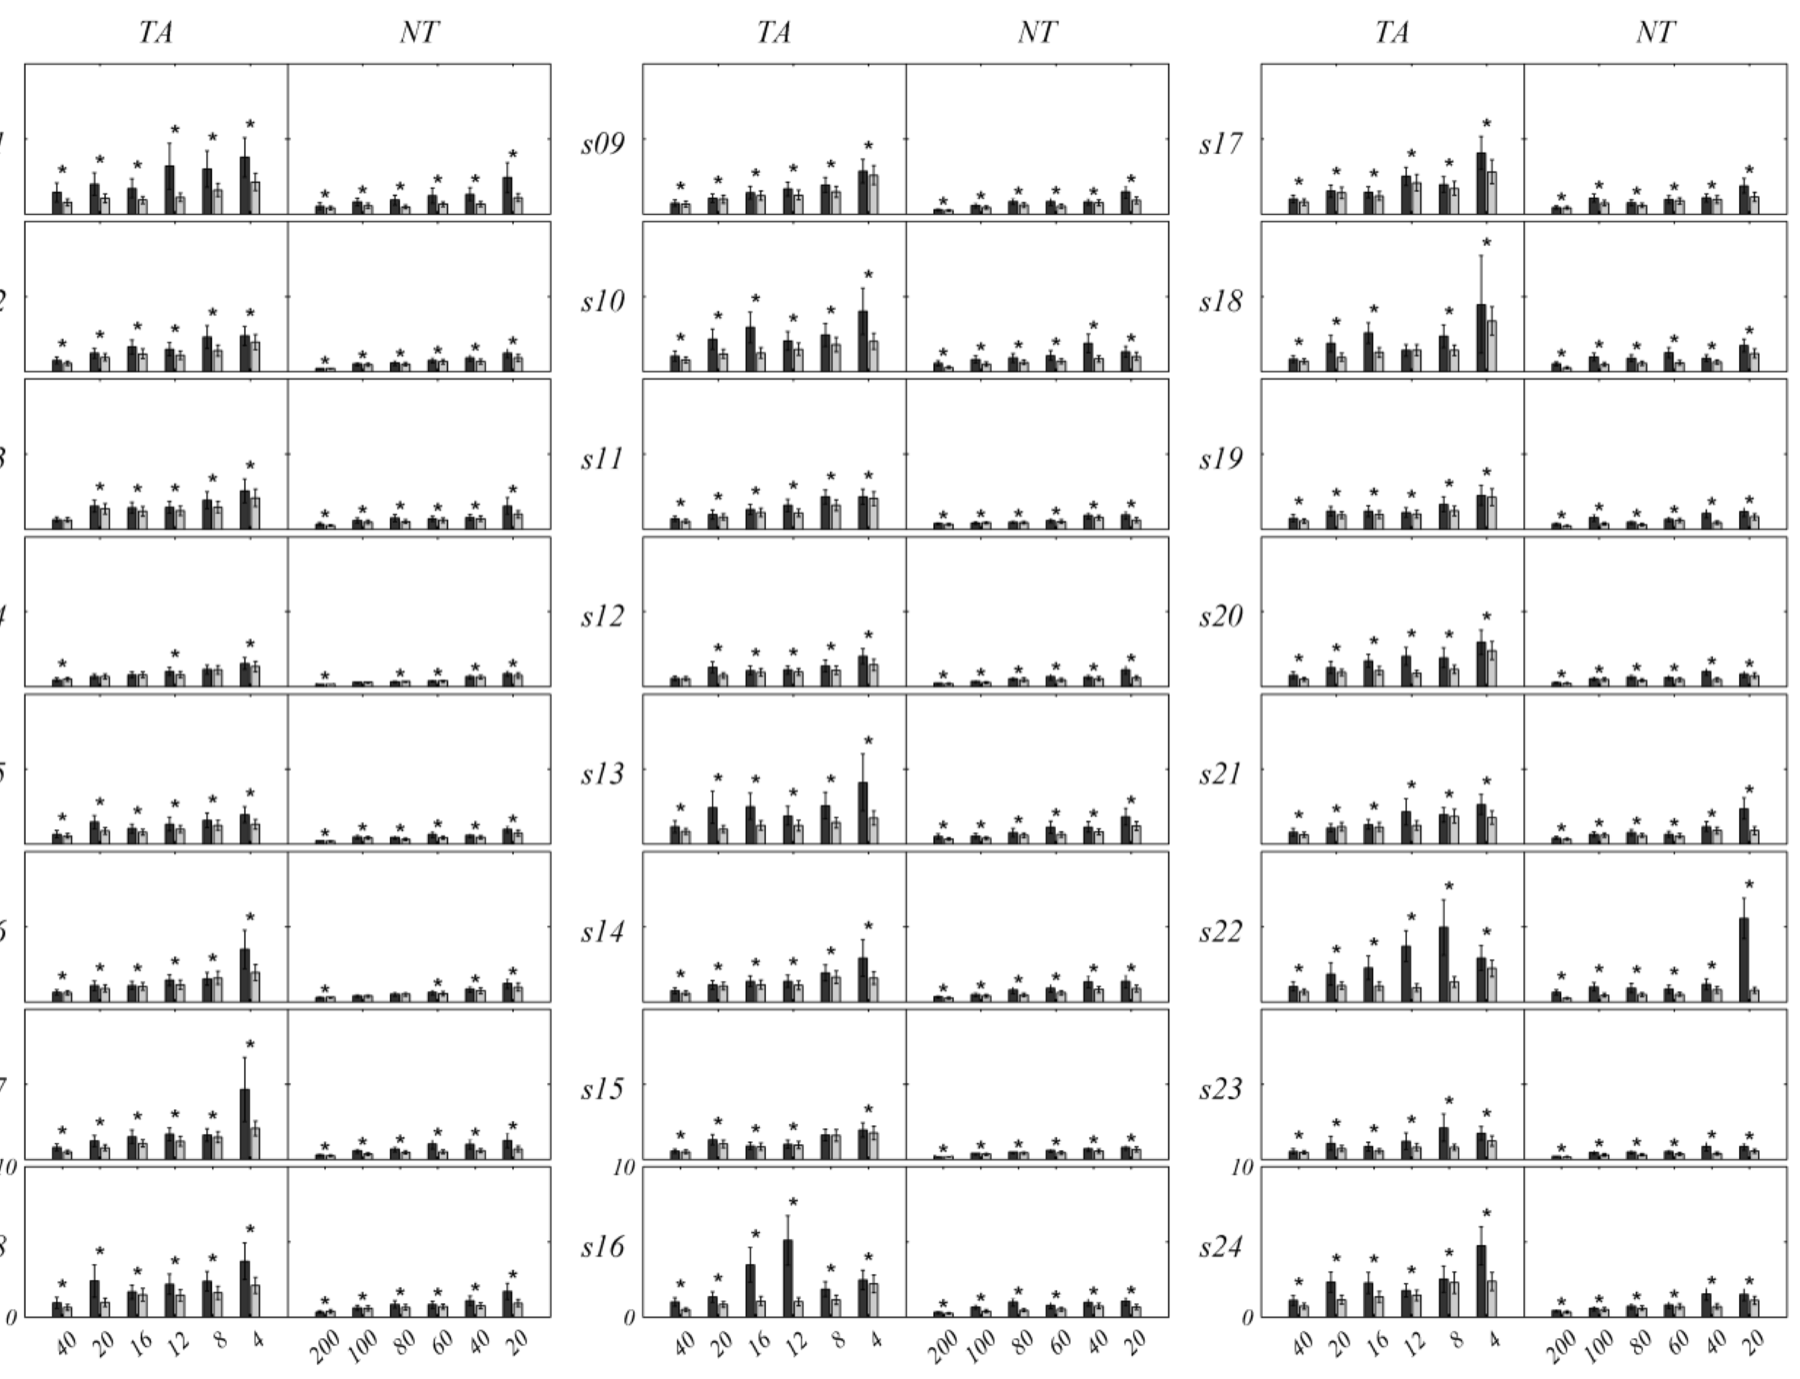
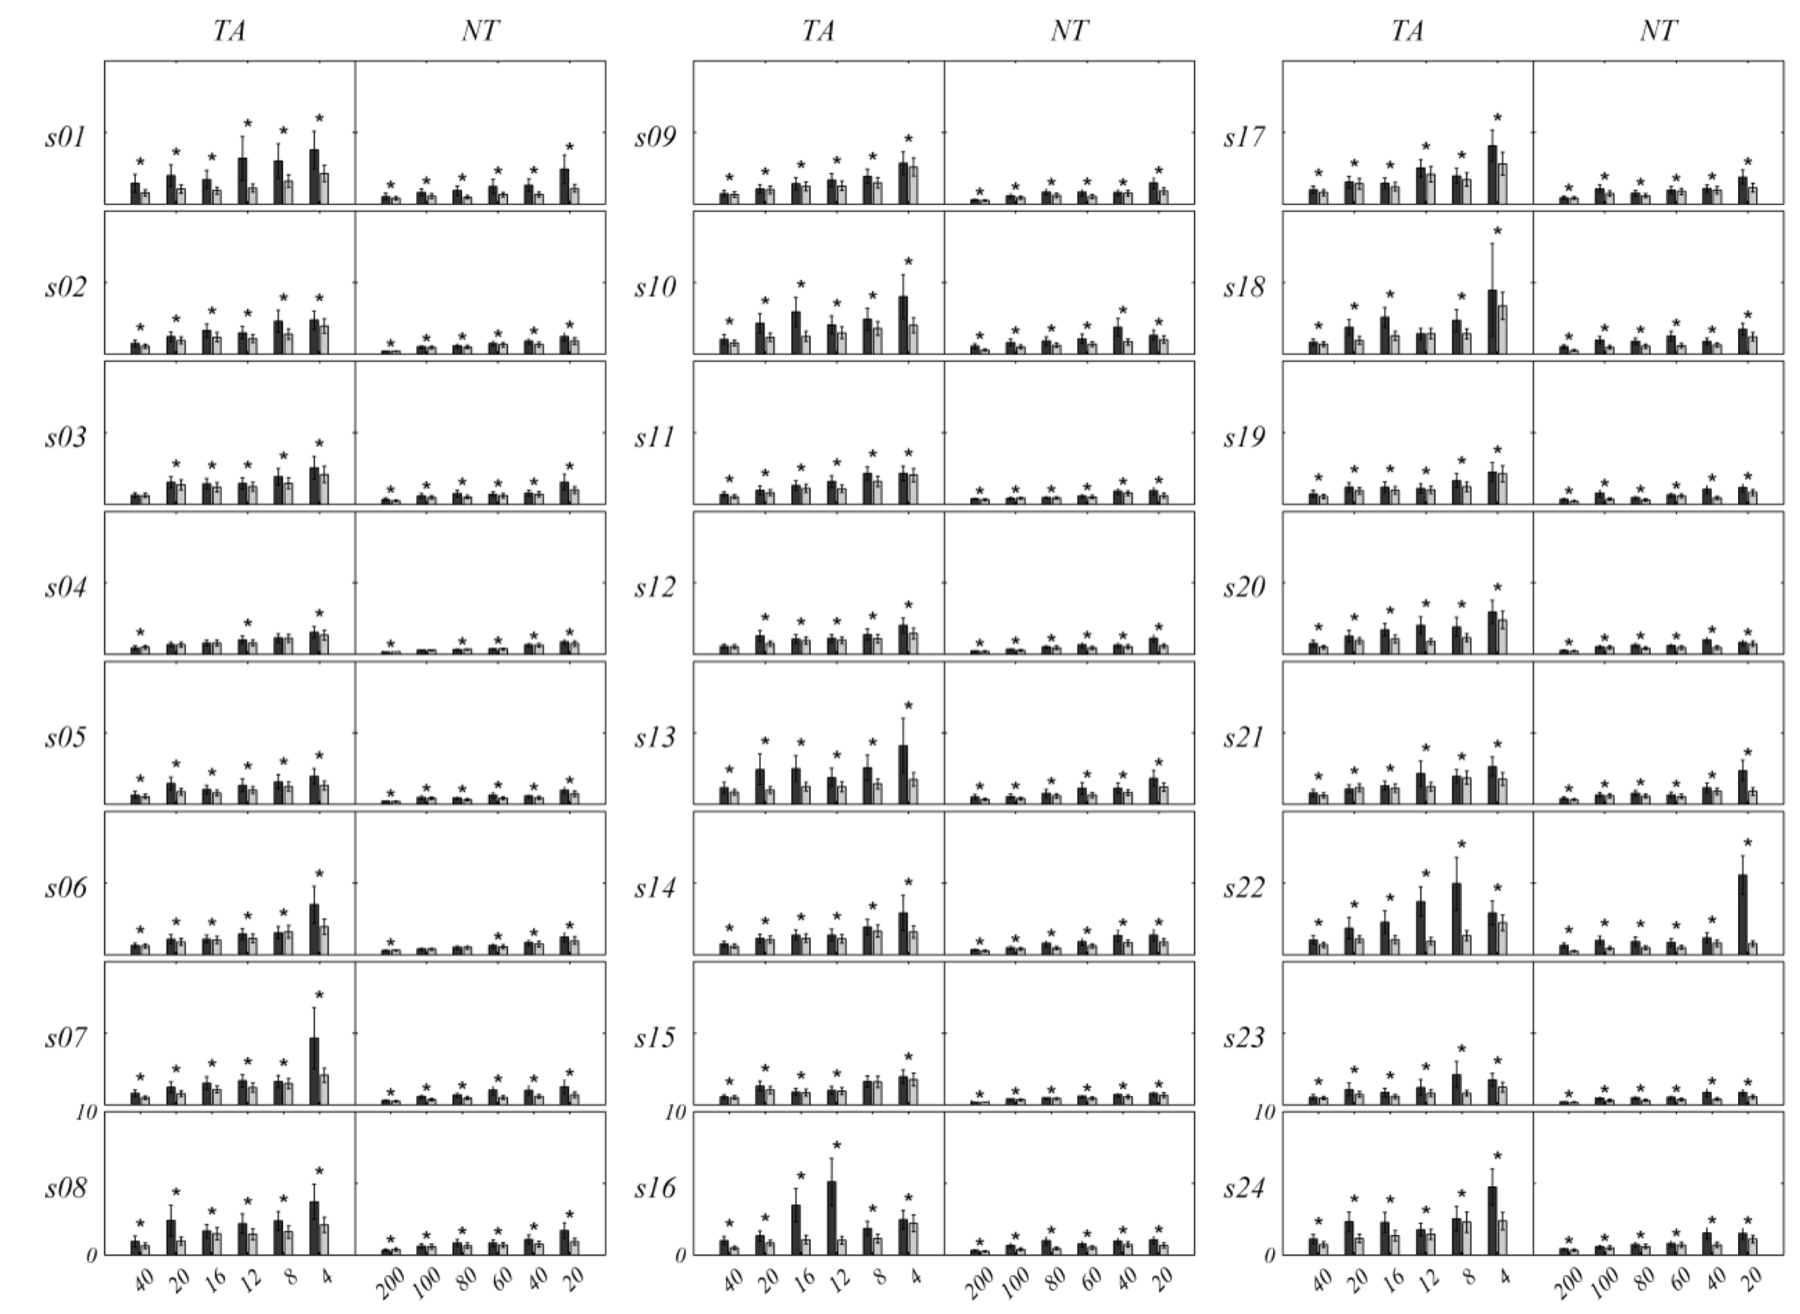
Docs: apply review fixes (SubspaceDim rule, sizes, trigger bounds, Fig. 5 crop)
- SubspaceDim: four or more values to let ACSTP choose (three -> middle).
- Weights output is 1 x K; exact trigger bounds with E = LatencyCorr_max.
- Remove false CRLF claim; correct the UTF-8 encoding remark (R2020a+).
- Note Fig. 2 vs text P_z mismatch; 66 % threshold reference in the code.
- Reword Type 2 latency histogram behaviour when LatencyCorr_max = 0.
- ACSTPshow help: ElectrodesName is required for Type 3 (comment only).
- Re-crop paper Fig. 5 to keep subject labels and y ticks.

diff --git a/lib/ACSTPshow.m b/lib/ACSTPshow.m
@@ -17,7 +17,8 @@ function ACSTPshow(EEG,ACSTPoptions,ACSTPfilter,Type)
 %
 % INPUTS :
 %   EEG : the same structure given to ACSTP (Fs, Trigger, EpochClass,
-%         Channels as [nb samples x nb channels], ElectrodesName optional).
+%         Channels as [nb samples x nb channels]). ElectrodesName labels
+%         the channels; it is required for Type 3.
 %   ACSTPoptions : the options given to ACSTP (uses Epoch_size and,
 %         for Type 2, LatencyCorr_max).
 %   ACSTPfilter : the second output of ACSTP.

diff --git a/README.md b/README.md
@@ -152,7 +152,7 @@ In the code: `Xhat(:,:,k) = As{c}*Bs{c}'*W(k)*X(:,:,k)*Bt{c}*At{c}'`, where `X(:
 | `A_z` | `As{z}` | N × P_z | spatial patterns (scalp maps) |
 | `E_z` | `At{z}` | T × P_z | temporal patterns (time courses) |
 | `P_z` | `BestPz(z)` | scalar | subspace dimension |
-| `σ_zk` | `Weights(k)` | K × 1 | sweep weights |
+| `σ_zk` | `Weights(k)` | 1 × K | sweep weights |
 | `τ_zk` | `Latency(k)` | K × 1 | sweep time shifts (samples) |
 | `Q̂_z` | `EAcstp(:,:,z)` | N × T | filtered ensemble average |
 | `ϒ_z` (mask) | `Mask_Electrodes` × `Mask_Time` | — | spatio-temporal mask |
@@ -213,7 +213,7 @@ Then pick `P_z` from the `SNR(p)` curve and return the step-4 filters, weights a
 
 ## Requirements and installation
 
-- **MATLAB.** The old README says R2011b or later. The code is from 2015–2016, has no MEX files, and was tested by the author on Windows.
+- **MATLAB.** The old wiki says R2011b or later. The code is from 2015–2016, has no MEX files, and was tested by the author on Windows.
 - **Signal Processing Toolbox**, for `findpeaks`. It is used to choose the subspace dimension (when you test 4 or more values) and in the latency correction (when `LatencyCorr_max > 0`). It is not bundled.
 - **Curve Fitting Toolbox `smooth`:** not needed. A copy of `smooth.m` ships in `lib/compatibility/`.
 - **EEGLAB (optional).** Only `ACSTPshow(...,3)` needs it, for the topographic maps (`readlocs`, `topoplot`). Electrode location files are in `data/loc/`. Put them on the path or copy them to EEGLAB's location folder.
@@ -274,7 +274,7 @@ Both inputs are required. See [Known issues](#known-issues) for why a call with 
 | `Trigger` | samples × 1 | zeros, with a non-zero value at the **first sample of each epoch**. Only the positions are used. You can also give a vector of sample indices, one per epoch: ACSTP then converts it and warns. |
 | `EpochClass` | epochs × 1 | class label of each epoch, in the order of `Trigger` (e.g. 0 = non-target, 1 = target) |
 | `NoiseTrigger` *(optional)* | samples × 1, or indices | epoch onsets used **only** for the noise covariances (1.12). Default: the same as `Trigger`. |
-| `ElectrodesName` *(optional)* | 1 × channels cell | electrode labels, used in figures |
+| `ElectrodesName` *(optional)* | 1 × channels cell | electrode labels, used in figures. Required by `ACSTPshow(...,3)`. |
 
 Epochs start **at** the trigger: there is no pre-stimulus window. If you want a baseline period, move the triggers earlier and widen `Epoch_size` and `Mask_Time` to match (a comment in the code suggests this).
 
@@ -283,10 +283,10 @@ Epochs start **at** the trigger: there is no pre-stimulus window. If you want a 
 | Field | Default | Meaning |
 |---|---|---|
 | `Epoch_size` | **required** | epoch length `T` in samples. It must be larger than the number of channels. |
-| `LatencyCorr_max` | `0` | maximum time shift `E` in samples (±). `0` turns latency correction off. Every trigger must be at least `E` samples away from the start and the end of the recording. |
+| `LatencyCorr_max` | `0` | maximum time shift `E` in samples (±). `0` turns latency correction off. Each trigger sample `t` must satisfy `t > E` and `t + Epoch_size − 1 + E ≤` number of samples, with `E` = `LatencyCorr_max` (otherwise ERROR5/ERROR6). |
 | `Mask_Electrodes` | all channels | channel indices of the mask. Used to choose `P_z` and in latency correction. |
 | `Mask_Time` | `1:Epoch_size` | sample indices (within the epoch) of the mask |
-| `SubspaceDim` | `N:-1:N/2` | candidate subspace dimensions, **in decreasing order**, each between 1 and N. Use one value to fix `P_z`, or three or more to let ACSTP choose (see [Known issues](#known-issues) about exactly two values). |
+| `SubspaceDim` | `N:-1:N/2` | candidate subspace dimensions, **in decreasing order**, each between 1 and N. Use one value to fix `P_z`, or four or more to let ACSTP choose (with three, the middle value is always taken). See [Known issues](#known-issues) about exactly two values. |
 | `MaxIterLatency` | `10` | maximum number of latency iterations |
 | `computeClassLat` | all classes | the classes whose latencies are estimated. Latency correction is the slowest step, so skip the classes that don't need it. |
 | `Weights` | `true` | `true`: estimate weights (1.16). `false`: all weights are 1. A K × 1 vector: use these weights as given (ACSTP warns). |
@@ -307,7 +307,7 @@ Epochs start **at** the trigger: there is no pre-stimulus window. If you want a 
 | `fullBs`, `fullBt`, `fullAs`, `fullAt` | the same, keeping all components (used for display, e.g. topoplots) |
 | `BestPz` | chosen subspace dimension per class |
 | `PzSNR` | the mask SNR for every tested `SubspaceDim` (last class), after 3-point smoothing and subtraction of its minimum (raw if only one value is tested) |
-| `Weights` | K × 1 weights `σ_k` (mean 1 within each class) |
+| `Weights` | 1 × K weights `σ_k` (mean 1 within each class); a K × 1 column of ones when `Weights = false` |
 | `Latency` | K × 1 time shifts `τ_k` in samples (0 when not estimated) |
 | `Class` | sorted class labels: the order of the 3rd dimension and of the cells |
 
@@ -367,6 +367,8 @@ Data: 24 subjects, Brain Invaders P300 odd-ball (80 target and 400 non-target fl
 ![Spatial and temporal CSTP patterns for four subjects](pic/fig4_cstp_patterns.png)
 *Paper, Fig. 4. The 16 temporal patterns (columns of `E`, time series) and spatial patterns (columns of `A`, scalp maps normalized to their maximum) for subjects 8, 10, 7 and 11. For subject 8, `P_z = 14`, so components 15–16 (very slow drifts) are removed. For subject 10, `P_z = 13`, so components 14–16 are removed; they peak at the frontal pole and are most likely eye-related.*
 
+*Note: the paper's text (and Fig. 3) give `P_z` = 14 for subject 8 and 13 for subject 10, while the panel titles of Fig. 2 read ACSTP(15) and ACSTP(14) for their target class.*
+
 ![Bootstrap RMSE of AEA and ACSTP for all subjects](pic/fig5_bootstrap_rmse.png)
 *Paper, Fig. 5. Variability of the estimators: mean and 3 SD of the RMSE over 600 bootstrap resamples, by bootstrap sample size (target: 40 down to 4 sweeps; non-target: 200 down to 20). Dark grey = AEA, light grey = ACSTP. Asterisk = significant difference (paired t-test, FDR q = 0.05). ACSTP has a lower RMSE in all subjects, and the gap grows as fewer sweeps are used.*
 
@@ -380,10 +382,11 @@ Data: 24 subjects, Brain Invaders P300 odd-ball (80 target and 400 non-target fl
 These come from reading `lib/ACSTP.m` next to the paper. Nothing was run, because no MATLAB licence was available.
 
 - **Whitening threshold.** The paper keeps the eigenvalues larger than `λ₁(C_(S))/10⁶` (CSTP box; "one million times smaller" in Appendix B). The code keeps the leading eigenvectors until their cumulative eigenvalue sum reaches `(1 − 10⁻¹²)` of the total, separately for space and time.
-- **Candidate subspace dimensions.** The paper scans `p = 2…N` and chooses in `{3,…,N−1}`. The code scans only the values in `SubspaceDim` (default `N` down to `N/2`). When the list has three or more values, it never picks the first or the last one.
-- **SNR used for `P_z`.** The paper uses the ratio of *squared* Frobenius norms (1.15). The code (`best_Pz`) uses the ratio of the norms themselves, so the 66 % threshold applies to the square root of the paper's SNR. Normalization: the paper uses `(SNR − min)/max`, while the code subtracts the minimum only. The threshold is relative, so this second difference has no effect.
+- **Candidate subspace dimensions.** The paper scans `p = 2…N` and chooses in `{3,…,N−1}`. The code scans only the values in `SubspaceDim` (default `N` down to `N/2`). When the list has three or more values, it never picks the first or the last one; with exactly three it always takes the middle one (`findpeaks` only runs for more than three).
+- **SNR used for `P_z`.** The paper uses the ratio of *squared* Frobenius norms (1.15). The code (`best_Pz`) uses the ratio of the norms themselves, so the 66 % threshold applies to the square root of the paper's SNR. The threshold is also taken relative to the largest SNR among the inner values of the list, not the global maximum. Normalization: the paper uses `(SNR − min)/max`, while the code subtracts the minimum only. The threshold is relative, so this second difference has no effect.
 - **Fallback for `P_z`.** If there is no valid local maximum, the paper sets `P_z = N − 1`. The code takes the maximum of the smoothed SNR over the inner values of the list.
 - **Latency search range.** The paper evaluates shifts in `{−E−1,…,E+1}` so that a peak at `±E` can be detected. The code evaluates `−E…E`, and `findpeaks` cannot return an end point, so shifts of exactly `±E` are never chosen.
+- **Latency threshold.** The paper's "valid local maximum" uses 66 % of the global maximum. In `LatencyEstimation` the 66 % is relative to the highest peak of the (min-subtracted) covariance curve.
 - **Latency mask.** The paper applies the mask (optionally) to both the leave-one-out average and the lagged sweep. The code masks only the lagged sweep. The leave-one-out average is computed from the current, already-shifted, weighted sweeps, without a mask.
 - **Latency stopping rule.** The paper stops when `Σ_k |τ_zk| < E`, or after `i` iterations (suggested `i = 2E`). The code stops after at least two iterations when `mean_k |τ_new − τ_old| < E / K₁`, where `K₁` is the number of epochs whose label is non-zero, or after `MaxIterLatency` iterations (default 10).
 - **Noise covariances.** These match (1.12): `cov` of each original, unweighted, unshifted epoch, averaged over all classes. The code also lets you use other segments (`EEG.NoiseTrigger`). The paper recommends random EEG segments when there are few sweeps (about 40 s of EEG is enough).
@@ -398,11 +401,10 @@ These come from reading the code. They have not been re-run.
 - **`installer.m`** looks for `external/` and `scripts/` folders that are not in the repository. Nothing is added from them. MATLAB may print a warning about the missing folders. It also puts `lib/compatibility/smooth.m` on the path, which shadows the Curve Fitting Toolbox `smooth` if you have it.
 - **Signal Processing Toolbox** (`findpeaks`) is required but not checked or bundled. Without it, ACSTP fails as soon as it tests 4 or more subspace dimensions, or when `LatencyCorr_max > 0`.
 - **`ACSTP(EEG)` with one input fails.** `ACSTPoptions` is read (`isfield(ACSTPoptions,...)`) before the `nargin < 2` branch. That branch's defaults are also hard-coded for 16 channels at 128 Hz.
-- **`SubspaceDim` with exactly two values** makes `best_Pz` return an empty index and ACSTP errors. Use one value, or three or more.
+- **`SubspaceDim` with exactly two values** makes `best_Pz` return an empty index and ACSTP errors. Use one value, or four or more (with three, the middle value is always taken).
 - **Several classes:** latency estimation uses the filters of the *last* class (`Bs(end)`, `Bt(end)`) for every class in `computeClassLat`. The returned `Weights`/`Latency` are those of the last class's best `P_z` (see above). Also, the latency call passes `Bt(end)` where `At` is expected; `At` is not used inside, so this has no effect. The tutorial notes that more than 2 classes were never tested.
 - **`ACSTPshow`** Types 1–2 and the one-input call hard-code two classes labelled 0 and 1. The one-input call also assumes `EEG.Channels` is samples × channels and 1-s epochs. Type 3 has room for 16 scalp maps, so it will error with more than 16 channels. It needs `Standard-10-20-Cap81.locs` on the path and electrode names found in that file.
-- **Encoding.** `lib/ACSTPshow.m` is saved in Latin-1/Windows-1252 (the `µ` in figure annotations). On a MATLAB that reads source files as UTF-8 (the default on macOS/Linux in recent releases), the `µ` displays garbled. This is cosmetic.
-- **Line endings.** All `.m` files use Windows CRLF line endings. MATLAB doesn't care, but some diff tools show it.
+- **Encoding.** `lib/ACSTPshow.m` is saved in Latin-1/Windows-1252 (the `µ` in figure annotations). MATLAB R2020a and later read source files as UTF-8 on every platform, Windows included, so there the `µ` displays garbled. This is cosmetic.
 - **Console noise.** `MaxIterLatency` is assigned without a semicolon, so its value is printed. `DISPLAY` does nothing.
 - **Off-by-one check:** for `NoiseTrigger`, an epoch that ends exactly on the last sample is rejected (`+Window` instead of `+Window-1`).
 - **Toy data:** `EEG_ex.mat` is a MATLAB v7.3 (HDF5) file. Its first ~1,560 samples, before the first trigger, contain a very large filtering transient (up to ~6·10⁷). Epochs taken at the triggers don't touch it, but the tutorial's optional "random noise epochs" test (TEST1) can.

diff --git a/TUTORIAL.md b/TUTORIAL.md
@@ -6,7 +6,7 @@ The method itself (equations, notation) is described in the [README](README.md#m
 
 > M. Congedo, L. Korczowski, A. Delorme, F. Lopes da Silva, "Spatio-temporal common pattern: A companion method for ERP analysis in the time domain", *J. Neurosci. Methods* 267:74–88, 2016. [hal-01343026](https://hal.science/hal-01343026/document)
 
-> **Note on this page.** It was written from the code, the paper and the figures in `pic/`. It was not re-run in MATLAB. The toy-data figure in step 0 was recomputed in Python from `EEG_ex.mat`. The other figures are the author's own `ACSTPshow` output or figures from the paper.
+> **Note on this page.** It was written from the code, the paper and the figures in `pic/`. It was not re-run in MATLAB. The toy-data figure in step 1 was recomputed in Python from `EEG_ex.mat`. The other figures are the author's own `ACSTPshow` output or figures from the paper.
 
 ---
 
@@ -170,7 +170,7 @@ ACSTPshow(EEG, ACSTPoptions, ACSTPfilter, 2)
 
 Three histograms: latencies of the NT epochs, latencies of the TA epochs (in samples, from −E to +E), and the weights of all epochs.
 
-- With the script's settings (`LatencyCorr_max = 0`), **both latency histograms are a single bar at 0**. Set `LatencyCorr_max = 4` to see a spread of TA latencies. NT latencies stay at 0 because `computeClassLat = 1`.
+- With the script's settings (`LatencyCorr_max = 0`) all latencies are 0, and the bin argument `-0:0` passed to `hist` is the scalar 0, which `hist` reads as a *number of bins*: the latency panels are not meaningful and this call may even fail. Check `ACSTPfilter.Latency` directly instead. With `LatencyCorr_max = 4` the bins are -4…4 and you see the spread of TA latencies. NT latencies stay at 0 because `computeClassLat = 1`.
 - The weights have mean 1 within each class. Epochs with large artifacts get small weights: the filter removes most of their energy, so the denominator of (1.16) is large.
 
 ### Type 3: the spatial and temporal patterns (EEGLAB)
@@ -263,7 +263,7 @@ If the epochs don't overlap in the original recording, you can concatenate them 
 - **Downsample.** About 128 Hz is enough for most ERP work, and it keeps `T` (samples per epoch) small. The temporal covariance is T × T.
 - **Reject only extreme artifacts**, e.g. with an amplitude threshold around ±200 µV after high-pass, or periods of lost electrode contact. ACSTP handles common blinks, eye movements and muscle bursts through the weights and the filter.
 - **Have enough noise data** for the covariances. With few epochs, add random EEG segments through `NoiseTrigger` (paper: about 40 s is enough).
-- **Epoch length > number of channels** (`T > N`), and every trigger at least `LatencyCorr_max` samples from both ends of the recording.
+- **Epoch length > number of channels** (`T > N`), and each trigger sample `t` must satisfy `t > E` and `t + Epoch_size − 1 + E ≤` number of samples, with `E` = `LatencyCorr_max`.
 
 ---
 
@@ -281,7 +281,7 @@ The mask is the one supervised choice in ACSTP. It tells the algorithm where the
 
 ### SubspaceDim
 
-- Give values **in decreasing order**: one value to fix `P`, or **three or more** to let ACSTP choose. Avoid exactly two.
+- Give values **in decreasing order**: one value to fix `P`, or **four or more** to let ACSTP choose (with three, the middle value is always taken). Avoid exactly two.
 - The first and last values are never chosen (when there are 3+). So bracket the range you expect, e.g. `N:-1:N-6` as in the script, or `N:-1:2` to follow the paper.
 - Run time grows linearly with the number of values, because each one runs the whole loop.
 - To see why a value was chosen, plot `ACSTPfilter.PzSNR` against `SubspaceDim`. It is the smoothed, minimum-subtracted mask SNR of the last class (compare with the paper's Fig. 3 in the README).
